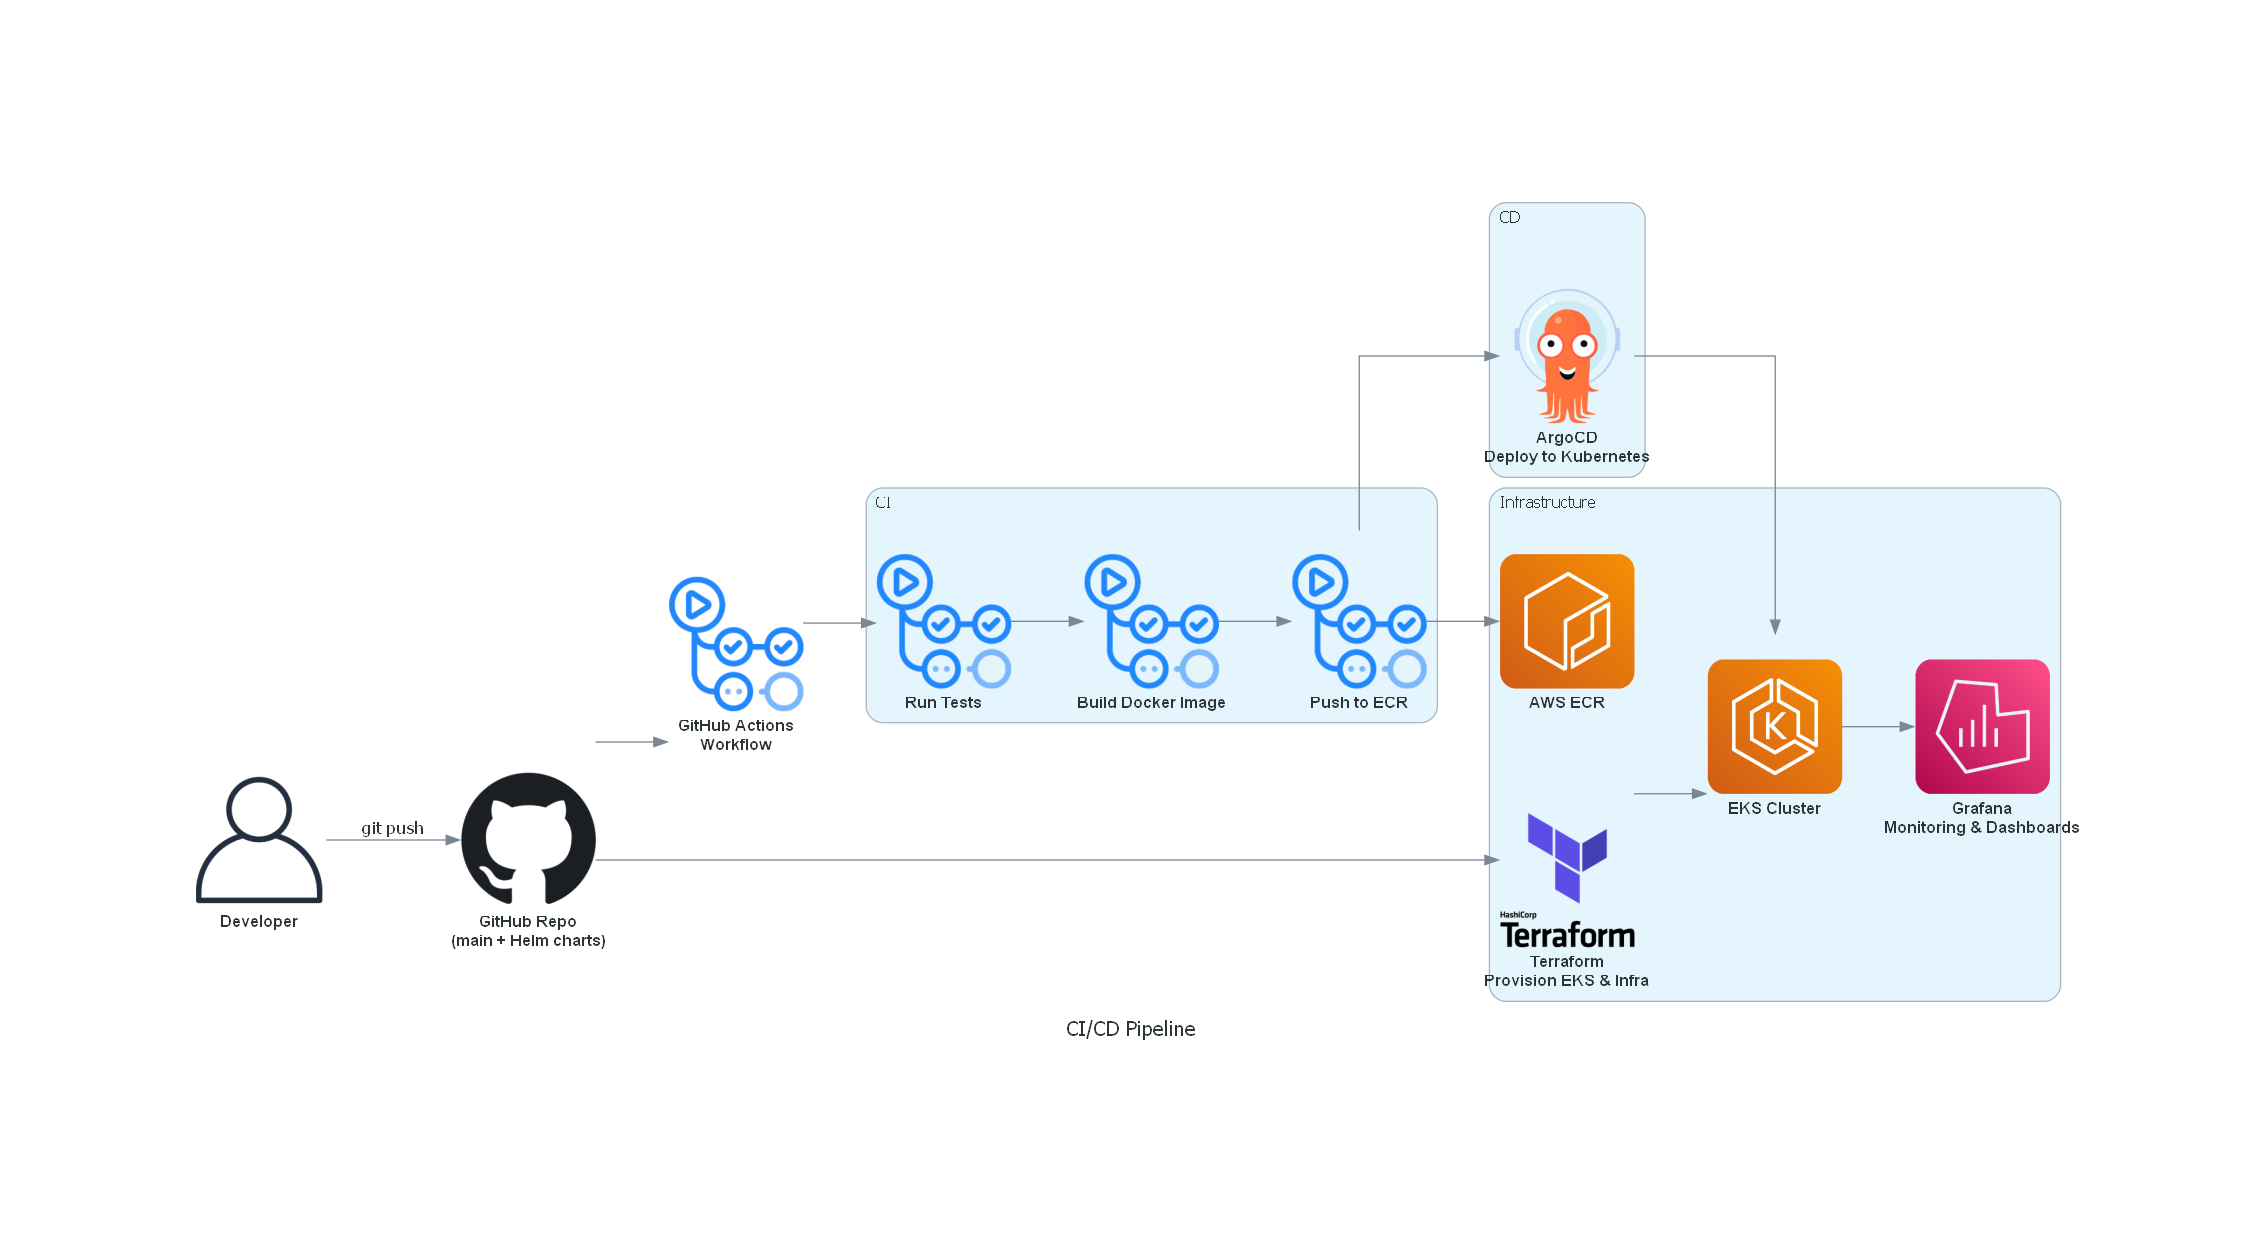
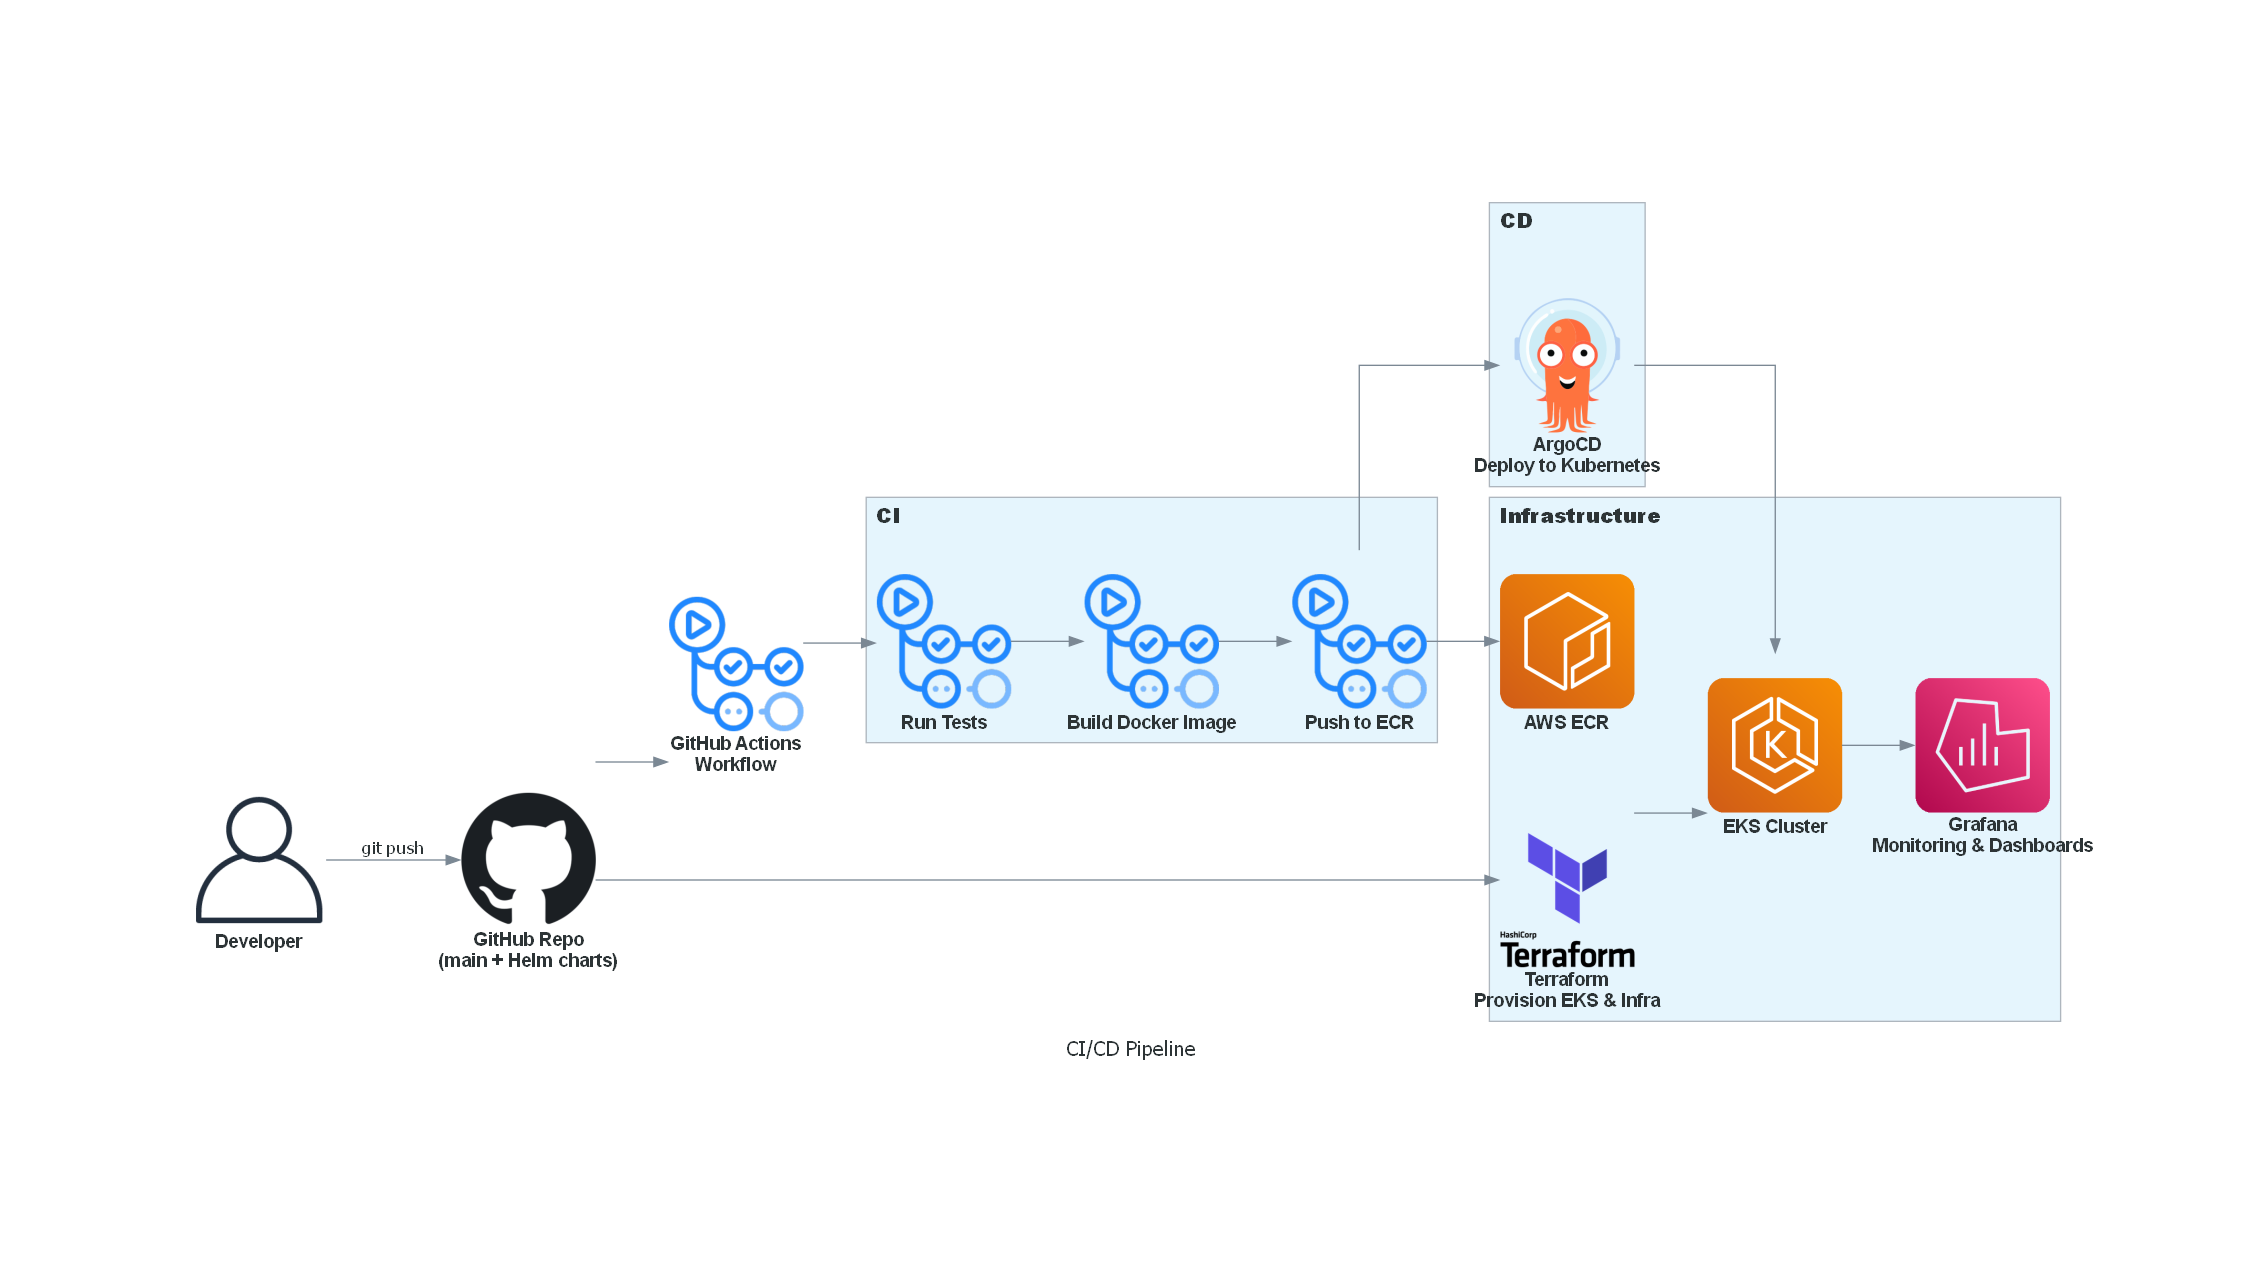
fix

diff --git a/arch/aws_network/main.py b/arch/aws_network/main.py
@@ -8,7 +8,7 @@ import sys
 
 # Add the parent directory 'arch' to the Python path to import settings
 sys.path.append(os.path.dirname(os.path.dirname(os.path.abspath(__file__))))
-from settings import node_attr
+from settings import node_attr, cluster_attr
 
 # ---- A. Fix Graphviz PATH for Windows (harmless on Linux/Mac) ----
 graphviz_bin = r"C:\Program Files\Graphviz\bin"
@@ -23,41 +23,41 @@ output_filename = os.path.join(script_dir, "aws_network_and_data")
 with Diagram("AWS VPC Network Architecture", show=False, direction="TB", filename=output_filename, node_attr=node_attr):
     user = User("Internet User")
 
-    with Cluster("AWS Region"):
-        with Cluster("VPC (10.0.0.0/16)"):
+    with Cluster("AWS Region", graph_attr=cluster_attr):
+        with Cluster("VPC (10.0.0.0/16)", graph_attr=cluster_attr):
             igw = InternetGateway("IGW")
             alb = ALB("ALB")
 
-            with Cluster("Availability Zone 1 (us-east-1a)"):
-                with Cluster("Public Subnet 1 (10.0.1.0/24)"):
+            with Cluster("Availability Zone 1 (us-east-1a)", graph_attr=cluster_attr):
+                with Cluster("Public Subnet 1 (10.0.1.0/24)", graph_attr=cluster_attr):
                     nat1 = NATGateway("NAT GW 1")
 
-                with Cluster("Private App Subnet 1 (10.0.11.0/24)"):
+                with Cluster("Private App Subnet 1 (10.0.11.0/24)", graph_attr=cluster_attr):
                     eks_nodes1 = EKS("EKS Worker Nodes")
 
-                with Cluster("Private Data Subnet 1 (10.0.21.0/24)"):
+                with Cluster("Private Data Subnet 1 (10.0.21.0/24)", graph_attr=cluster_attr):
                     db1 = RDS("RDS Instance 1")
                     cache1 = ElastiCache("Cache Instance 1")
 
-            with Cluster("Availability Zone 2 (us-east-1b)"):
-                with Cluster("Public Subnet 2 (10.0.2.0/24)"):
+            with Cluster("Availability Zone 2 (us-east-1b)", graph_attr=cluster_attr):
+                with Cluster("Public Subnet 2 (10.0.2.0/24)", graph_attr=cluster_attr):
                     nat2 = NATGateway("NAT GW 2")
 
-                with Cluster("Private App Subnet 2 (10.0.12.0/24)"):
+                with Cluster("Private App Subnet 2 (10.0.12.0/24)", graph_attr=cluster_attr):
                     eks_nodes2 = EKS("EKS Worker Nodes")
 
-                with Cluster("Private Data Subnet 2 (10.0.22.0/24)"):
+                with Cluster("Private Data Subnet 2 (10.0.22.0/24)", graph_attr=cluster_attr):
                     db2 = RDS("RDS Instance 2")
                     cache2 = ElastiCache("Cache Instance 2")
 
-            with Cluster("Availability Zone 3 (us-east-1c)"):
-                with Cluster("Public Subnet 3 (10.0.3.0/24)"):
+            with Cluster("Availability Zone 3 (us-east-1c)", graph_attr=cluster_attr):
+                with Cluster("Public Subnet 3 (10.0.3.0/24)", graph_attr=cluster_attr):
                     nat3 = NATGateway("NAT GW 3")
 
-                with Cluster("Private App Subnet 3 (10.0.13.0/24)"):
+                with Cluster("Private App Subnet 3 (10.0.13.0/24)", graph_attr=cluster_attr):
                     eks_nodes3 = EKS("EKS Worker Nodes")
 
-                with Cluster("Private Data Subnet 3 (10.0.23.0/24)"):
+                with Cluster("Private Data Subnet 3 (10.0.23.0/24)", graph_attr=cluster_attr):
                     db3 = RDS("RDS Instance 3")
                     cache3 = ElastiCache("Cache Instance 3")
 

diff --git a/arch/eks_alb_ingress_with_secrets/main.py b/arch/eks_alb_ingress_with_secrets/main.py
@@ -7,7 +7,7 @@ from diagrams import Diagram, Cluster, Edge
 import sys
 import os
 sys.path.append(os.path.abspath(os.path.join(os.path.dirname(__file__), '..')))
-from settings import node_attr
+from settings import node_attr, cluster_attr
 
 from diagrams.onprem.client import User
 
@@ -38,24 +38,24 @@ with Diagram(
     node_attr=node_attr
 ):
     # Edge Layer - User facing components
-    with Cluster("Edge Layer"):
+    with Cluster("Edge Layer", graph_attr=cluster_attr):
         user = User("End User")
         r53 = Route53("Route 53")
         cf = CloudFront("CloudFront")
         alb = ALB("ALB")
 
     # Kubernetes / EKS - Main application cluster
-    with Cluster("EKS Cluster"):
+    with Cluster("EKS Cluster", graph_attr=cluster_attr):
         eks = EKS("Control Plane")
 
         # Cluster Autoscaler
         cluster_autoscaler = ApplicationAutoScaling("Cluster Autoscaler")
 
-        with Cluster("Node Groups (Auto-Scaling)"):
+        with Cluster("Node Groups (Auto-Scaling)", graph_attr=cluster_attr):
             ng_a = EC2("Nodes AZ-a")
             ng_b = EC2("Nodes AZ-b")
 
-        with Cluster("status-page Namespace"):
+        with Cluster("status-page Namespace", graph_attr=cluster_attr):
             # Ingress + Service
             ing = Ingress("Ingress")
             svc_web = Service("web-service")
@@ -75,13 +75,13 @@ with Diagram(
             sched_pod = Pod("Scheduler Pod\n(replicas: 1)")
 
             # AWS Secrets Manager Integration
-            with Cluster("Secrets Integration"):
+            with Cluster("Secrets Integration", graph_attr=cluster_attr):
                 sa = ServiceAccount("Service Account\n(IRSA)")
                 csi_driver = DaemonSet("Secrets Store CSI Driver\n(AWS ASCP)")
                 spc = Role("SecretProviderClass")
 
     # Data Layer - Databases and storage
-    with Cluster("Data Layer (Multi-AZ)"):
+    with Cluster("Data Layer (Multi-AZ)", graph_attr=cluster_attr):
         rds = RDS("RDS PostgreSQL\n(Multi-AZ)")
         redis = ElastiCache("ElastiCache Redis\n(Multi-AZ)")
         opensearch = AmazonOpensearchService("OpenSearch Service\n(Multi-AZ)")
@@ -91,7 +91,7 @@ with Diagram(
     sm = SecretsManager("AWS Secrets Manager")
 
     # Monitoring & Observability - Observability stack
-    with Cluster("Monitoring & Observability"):
+    with Cluster("Monitoring & Observability", graph_attr=cluster_attr):
         grafana = AmazonManagedGrafana("Amazon Managed Grafana")
         prometheus = AmazonManagedPrometheus("Amazon Managed\nService for Prometheus")
 

diff --git a/arch/settings.py b/arch/settings.py
@@ -2,11 +2,21 @@
 
 # General settings for all diagrams
 node_attr = {
-    "fontsize": "12",
+    "fontsize": "14",
     "fontname": "Arial Bold",
+    "fontweight": "bold",
     "labelloc": "b",
     "fixedsize": "true",
     "height": "2"
+}
+
+# Cluster settings for better visibility of cluster titles
+cluster_attr = {
+    "fontsize": "16",
+    "fontname": "Arial Black",
+    "fontweight": "bold",
+    "labelloc": "t",
+    "style": "filled"
 }
 
 # You can add other general settings here in the future
@@ -30,12 +40,12 @@ def run_all_diagrams():
         "eks_alb_ingress_with_secrets"
     ]
     
-    print("🚀 Starting to generate all architecture diagrams...")
+    print("Starting to generate all architecture diagrams...")
     print("=" * 50)
     
     for diagram in diagrams:
         diagram_path = os.path.join(base_dir, diagram, "main.py")
-        print(f"📊 Generating {diagram} diagram...")
+        print(f"Generating {diagram} diagram...")
         
         try:
             # Run the Python script
@@ -44,17 +54,20 @@ def run_all_diagrams():
             ], capture_output=True, text=True, cwd=os.path.join(base_dir, diagram))
             
             if result.returncode == 0:
-                print(f"✅ {diagram} diagram generated successfully!")
+                print(f"{diagram} diagram generated successfully!")
+                if result.stdout.strip():
+                    print(f"   Output: {result.stdout.strip()}")
             else:
-                print(f"❌ Error generating {diagram} diagram:")
+                print(f"Error generating {diagram} diagram:")
                 print(f"   Error: {result.stderr}")
                 
         except Exception as e:
-            print(f"❌ Failed to run {diagram}: {str(e)}")
+            print(f"Failed to run {diagram}: {str(e)}")
     
     print("=" * 50)
-    print("🎉 All diagrams generation completed!")
-    print(f"📁 Check the PNG files in each diagram directory in: {base_dir}")
+    print("All diagrams generation completed!")
+    print(f"Check the PNG files in each diagram directory in: {base_dir}")
+    print("All cluster titles are now styled with bold, larger fonts for better readability!")
 
 if __name__ == "__main__":
     # Allow running this script directly to generate all diagrams

diff --git a/arch/cicd_pipeline/main.py b/arch/cicd_pipeline/main.py
@@ -7,7 +7,7 @@ from diagrams import Diagram, Cluster, Edge
 import sys
 import os
 sys.path.append(os.path.abspath(os.path.join(os.path.dirname(__file__), '..')))
-from settings import node_attr
+from settings import node_attr, cluster_attr
 
 # On-prem / general
 from diagrams.onprem.client import User
@@ -32,6 +32,9 @@ graphviz_bin = r"C:\Program Files\Graphviz\bin"
 if os.name == "nt" and os.path.isdir(graphviz_bin):
     os.environ["PATH"] = graphviz_bin + os.pathsep + os.environ.get("PATH", "")
     os.environ["GRAPHVIZ_DOT"] = os.path.join(graphviz_bin, "dot.exe")
+    print(f"Graphviz PATH configured: {graphviz_bin}")
+else:
+    print("Graphviz PATH not configured (Linux/Mac or not found)")
 
 
 # -----------------
@@ -42,15 +45,15 @@ with Diagram("CI/CD Pipeline", filename="cicd_pipeline", direction="LR", show=Fa
     repo = Github("GitHub Repo\n(main + Helm charts)")
     ci = GithubActions("GitHub Actions\nWorkflow")
 
-    with Cluster("CI"):
+    with Cluster("CI", graph_attr=cluster_attr):
         tests = GithubActions("Run Tests")
         build = GithubActions("Build Docker Image")
         push = GithubActions("Push to ECR")
 
-    with Cluster("CD"):
+    with Cluster("CD", graph_attr=cluster_attr):
         deploy = ArgoCD("ArgoCD\nDeploy to Kubernetes")
 
-    with Cluster("Infrastructure"):
+    with Cluster("Infrastructure", graph_attr=cluster_attr):
         terraform = Terraform("Terraform\nProvision EKS & Infra")
         eks = EKS("EKS Cluster")
         registry = ECR("AWS ECR")
@@ -62,3 +65,6 @@ with Diagram("CI/CD Pipeline", filename="cicd_pipeline", direction="LR", show=Fa
     push >> registry
     terraform >> eks
     deploy >> eks >> grafana
+
+print("CI/CD Pipeline diagram generated successfully!")
+print(f"File saved as: cicd_pipeline.png")
